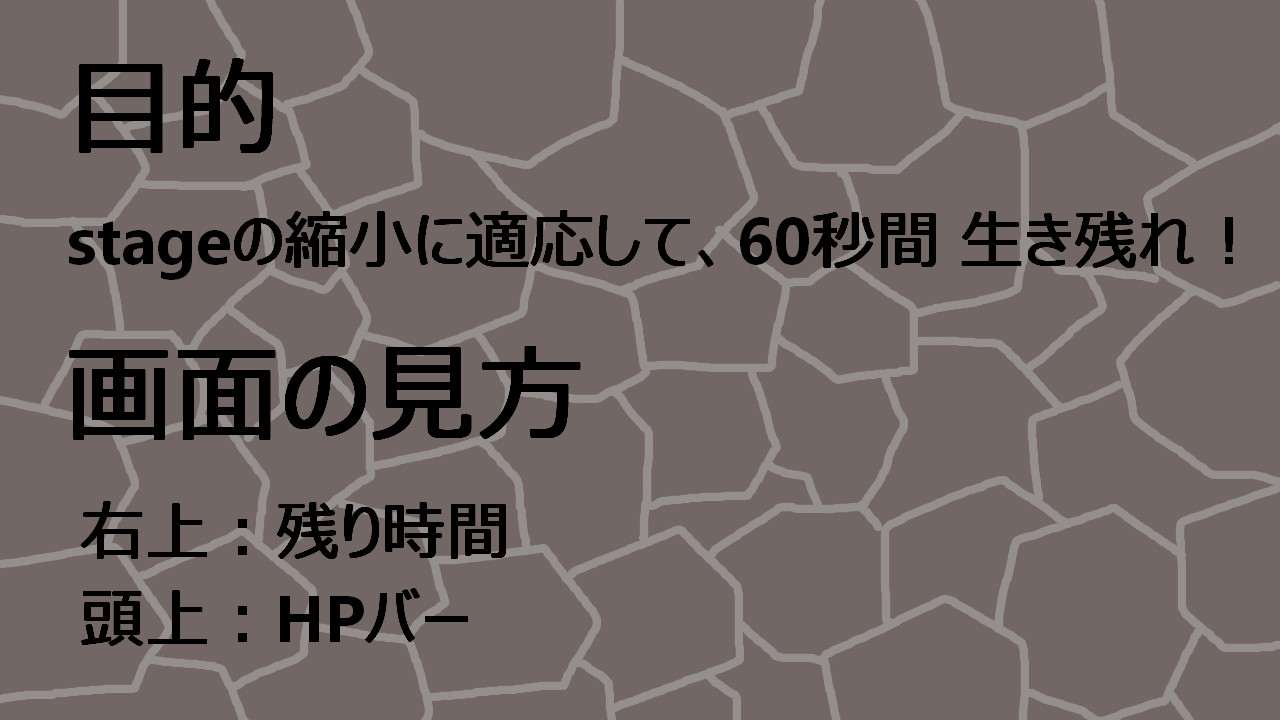
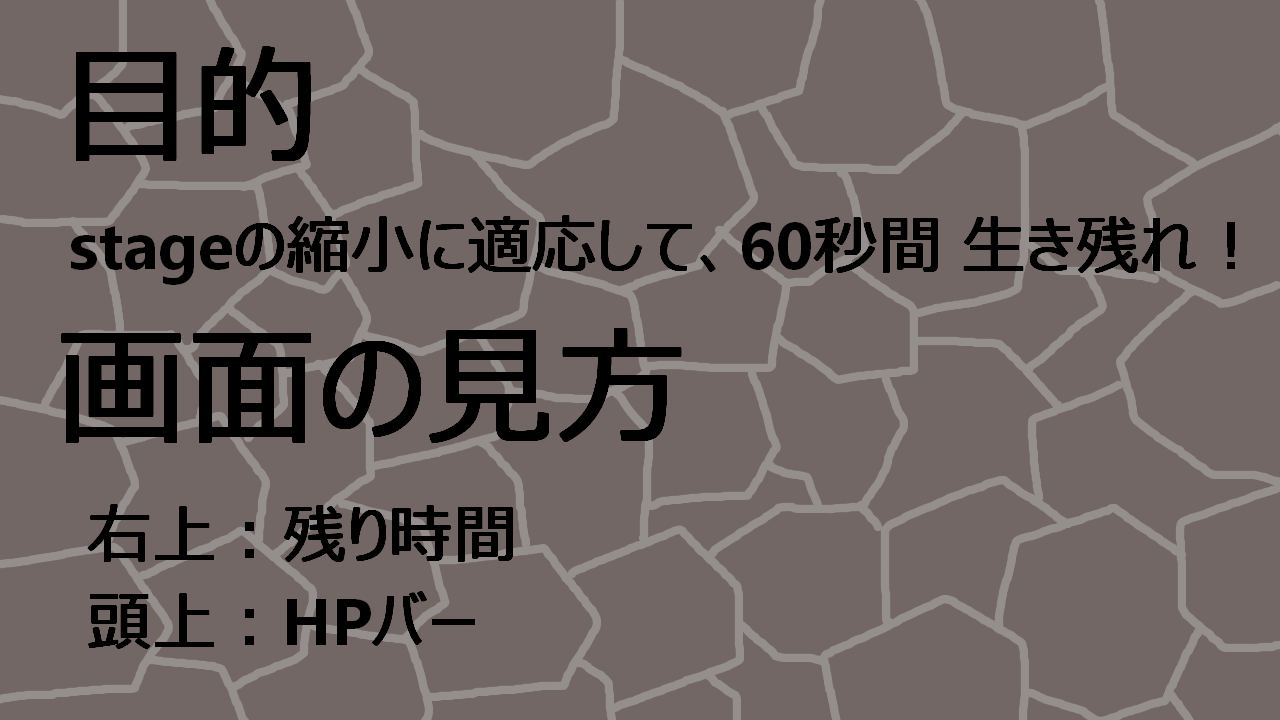
totyuu

diff --git a/DirectXGame/GameScene.cpp b/DirectXGame/GameScene.cpp
@@ -16,24 +16,20 @@ using namespace KamataEngine;
 
 // ===== カウントダウン初期化（UV不要版） =====
 void GameScene::InitCountdownSprites_Fallback_() {
-	// 0〜9の画像をロードし、十/一の位用スプライトをあらかじめ作成
 	for (int i = 0; i < 10; ++i) {
 		std::string path = "./Resources/number/" + std::to_string(i) + ".png";
 		digitTex_[i] = TextureManager::Load(path.c_str());
 
-		// 一の位（右）
 		onesSpr_[i] = Sprite::Create(digitTex_[i], {0.0f, 0.0f});
 		onesSpr_[i]->SetSize({kDigitDrawW_, kDigitDrawH_});
 		onesSpr_[i]->SetPosition({kScreenW_ - 24.0f - kDigitDrawW_, 16.0f});
 
-		// 十の位（左）
 		tensSpr_[i] = Sprite::Create(digitTex_[i], {0.0f, 0.0f});
 		tensSpr_[i]->SetSize({kDigitDrawW_, kDigitDrawH_});
 		tensSpr_[i]->SetPosition({kScreenW_ - 24.0f - kDigitDrawW_ * 2.0f, 16.0f});
 	}
 }
 
-// ===== 指定秒（0〜99）を2桁で描画 =====
 void GameScene::DrawCountdown_Fallback_(int remainSec) {
 	remainSec = std::clamp(remainSec, 0, 99);
 	const int tens = remainSec / 10;
@@ -45,13 +41,11 @@ void GameScene::DrawCountdown_Fallback_(int remainSec) {
 }
 
 GameScene::~GameScene() {
-	// カウントダウン用スプライト解放
 	for (int i = 0; i < 10; ++i) {
 		delete tensSpr_[i];
 		delete onesSpr_[i];
 		tensSpr_[i] = onesSpr_[i] = nullptr;
 	}
-	// 既存オブジェクト解放
 	delete stage_;
 	delete magma_;
 	delete player_;
@@ -87,6 +81,9 @@ void GameScene::Init() {
 	player_ = new Player();
 	player_->Init();
 
+
+	player_->SetGroundY(stage_->GetTopY()); // 位置は変えず、接地基準だけセット
+
 	// 頭上HPバー
 	whiteTex_ = TextureManager::Load("./Resources/white1x1.png");
 	player_->InitHpBar(whiteTex_, {120.0f, 15.0f}, {0.0f, 3.3f, 0.0f});
@@ -114,7 +111,6 @@ void GameScene::SpawnMarkerOnStage(float warnSec) {
 	const float stageR = stage_->GetRadius();
 	const float yawRad = stage_->GetYawRad();
 
-	// 円内一様
 	const float margin = stageR * 0.12f;
 	const float usableR = std::fmax(stageR - margin, 0.0f);
 
@@ -142,6 +138,39 @@ void GameScene::SpawnIcicleAt(const Vector3& groundPos, float dropHeight) {
 	auto rock = std::make_unique<FallingRock>();
 	rock->Initialize(modelIcicle_, start, /*speed=*/30.0f, /*hitY=*/topY);
 	icicles_.push_back(std::move(rock));
+}
+
+// ★ Player×Stage（接地＆円境界押し戻し）
+void GameScene::ResolvePlayerStageCollision() {
+	// 一時的にステージ上面に 0.30f 持ち上げてみる
+	const float surfaceY = stage_->GetTopY() + 2.0f; // ← ここを変えるだけでもOK
+	player_->SetGroundY(surfaceY);
+
+	// 横方向：ステージ円境界内にクランプ
+	const auto c = stage_->GetCenterXZ();            // x=中心X, y=中心Z
+	const float R = stage_->GetRadius();             // ステージ半径
+	const float pr = player_->GetColliderRadiusXZ(); // プレイヤー半径
+
+	const Vector3& pos = player_->GetWorldTransform().translation_;
+	const float dx = pos.x - c.x;
+	const float dz = pos.z - c.y; // center.y は Z
+	const float dist2 = dx * dx + dz * dz;
+	const float maxDist = std::max(R - pr, 0.0f);
+
+	if (dist2 > maxDist * maxDist) {
+		const float dist = std::sqrt(dist2);
+		if (dist > 1e-5f) {
+			const float nx = dx / dist;
+			const float nz = dz / dist;
+			const float clampX = c.x + nx * maxDist;
+			const float clampZ = c.y + nz * maxDist;
+			player_->SetPositionXZ(clampX, clampZ);
+			player_->ForceUpdateMatrix();
+		} else {
+			player_->SetPositionXZ(c.x, c.y + maxDist);
+			player_->ForceUpdateMatrix();
+		}
+	}
 }
 
 // 円×高さ＋少しパディングで判定（ヒット時10ダメージ）
@@ -195,6 +224,9 @@ void GameScene::Update() {
 	magma_->Update();
 	skydome_->Update();
 
+	// ★ステージとの当たり判定（接地＆円境界）
+	ResolvePlayerStageCollision();
+
 	// === カウントダウン ===
 	countdownSec_ -= (1.0f / 60.0f);
 	if (countdownSec_ < 0.0f)
@@ -223,7 +255,7 @@ void GameScene::Update() {
 	for (auto& i : icicles_)
 		i->Update();
 
-	// 当たり判定
+	// 当たり判定（つらら）
 	ResolvePlayerIcicleCollisions();
 
 	// 着弾 or 消費済み のつららを削除
@@ -231,7 +263,7 @@ void GameScene::Update() {
 
 	// 0 になったらクリアへ
 	if (remain <= 0) {
-		sceneNo_ = GAME_CLEAR; // ← あなたの enum 名に合わせてください
+		sceneNo_ = GAME_CLEAR; // ← enum に合わせて
 	}
 
 	// HPバー追従
@@ -243,7 +275,6 @@ void GameScene::Update() {
 void GameScene::DrawBackGroundSprite() { dxCommon_->ClearDepthBuffer(); }
 
 void GameScene::DrawModel() {
-	// 描画順：Stage → Magma → Marker/Icicle → Player → Skydome
 	stage_->Draw(camera_);
 	magma_->Draw(camera_);
 	for (auto& m : markers_)
@@ -258,15 +289,10 @@ void GameScene::DrawForeGroundSprite() {
 	ID3D12GraphicsCommandList* cl = dxCommon_->GetCommandList();
 	Sprite::PreDraw(cl);
 
-	// プレイヤー頭上のHPバー
-	player_->DrawUI();
-
-	// 右上カウントダウン
+	player_->DrawUI(); // HPバー
 	const int remain = static_cast<int>(std::ceil(countdownSec_));
 	DrawCountdown_Fallback_(remain);
 
 	Sprite::PostDraw();
-
-	// ImGui
 	imguiMgr_->Draw();
 }

diff --git a/DirectXGame/Player.cpp b/DirectXGame/Player.cpp
@@ -1,6 +1,6 @@
 #include "Player.h"
 #include "MathUtilityForText.h"
-#include <imgui.h> // マウスのデルタ取得（ImGui::GetIO().MouseDelta）
+#include <imgui.h> // ImGui::GetIO().MouseDelta
 
 using namespace KamataEngine;
 
@@ -11,7 +11,7 @@ Player::~Player() {
 
 void Player::Init() {
 	worldTransform_.Initialize();
-	worldTransform_.translation_.y = 25.0f; // 既存開始高さ
+	worldTransform_.translation_.y = 25.0f; // 仮の開始高さ（後でスナップ）
 	worldTransform_.rotation_ = {0.0f, 0.0f, 0.0f};
 	worldTransform_.UpdateMatrix(true);
 
@@ -25,7 +25,7 @@ void Player::Init() {
 	damageCooldown_ = 0.0f;
 
 	// ジャンプ/重力
-	baseY_ = worldTransform_.translation_.y; // 今の高さを地面扱い
+	baseY_ = worldTransform_.translation_.y; // とりあえず今の高さを「地面」としておく
 	velY_ = 0.0f;
 	onGround_ = true;
 
@@ -55,9 +55,7 @@ void Player::Update() {
 	// ===== マウスで視点（Yaw）回転：常時 =====
 	{
 		ImGuiIO& io = ImGui::GetIO();
-		// UI操作中は回したくない場合はブロック
 		if (!io.WantCaptureMouse) {
-			// 右に動かすと右回転（手前向き右手系なら符号入替で調整）
 			yawRad_ += io.MouseDelta.x * kMouseYawSensitivity_;
 		}
 	}
@@ -66,13 +64,13 @@ void Player::Update() {
 	// ===== 横移動（プレイヤーの向き基準：ローカル→ワールド） =====
 	Vector3 localMove{0.0f, 0.0f, 0.0f};
 
-	// キーボード（W前・S後・A左・D右）
+	// キーボード（W前・S後・A左・D右）※現行符号に合わせています
 	if (in->PushKey(DIK_A))
 		localMove.x -= kMoveSpeedKeys_;
 	if (in->PushKey(DIK_D))
 		localMove.x += kMoveSpeedKeys_;
 	if (in->PushKey(DIK_S))
-		localMove.z -= kMoveSpeedKeys_; // 前 = -Z と仮定
+		localMove.z -= kMoveSpeedKeys_; // 前 = -Z
 	if (in->PushKey(DIK_W))
 		localMove.z += kMoveSpeedKeys_; // 後 = +Z
 
@@ -95,7 +93,7 @@ void Player::Update() {
 	velY_ += kGravity_ * dt;
 	worldTransform_.translation_.y += velY_ * dt;
 
-	// 接地（Init時の高さを地面扱い）
+	// 接地（baseY_ を基準に）
 	if (worldTransform_.translation_.y <= baseY_) {
 		worldTransform_.translation_.y = baseY_;
 		velY_ = 0.0f;
@@ -128,3 +126,36 @@ AABB Player::GetAABB() const {
 	const Vector3 half = {kRadius_, kHalfHeight_, kRadius_};
 	return AABB{c - half, c + half};
 }
+
+// ===== ここから追加実装 =====
+
+// ステージ上面Yを渡すと、センターの接地Yを surfaceY + 半身長 に設定
+void Player::SetGroundY(float surfaceY) {
+	// 基準 = ステージ上面 + 半身長 + クリアランス
+	const float newBase = surfaceY + kHalfHeight_ + kGroundClearance_; // ← ここに +kGroundClearance_ が入っているか確認
+	if (worldTransform_.translation_.y > newBase + 1e-4f)
+		onGround_ = false;
+	baseY_ = newBase;
+
+	if (worldTransform_.translation_.y < baseY_) {
+		worldTransform_.translation_.y = baseY_;
+		velY_ = 0.0f;
+		onGround_ = true;
+		worldTransform_.UpdateMatrix(true);
+	}
+}
+
+// 初期配置などで「今すぐ地面に乗せたい」時に呼ぶ
+void Player::SnapToGround() {
+	worldTransform_.translation_.y = baseY_;
+	velY_ = 0.0f;
+	onGround_ = true;
+	worldTransform_.UpdateMatrix(true);
+}
+
+void Player::SetPositionXZ(float x, float z) {
+	worldTransform_.translation_.x = x;
+	worldTransform_.translation_.z = z;
+}
+
+void Player::ForceUpdateMatrix() { worldTransform_.UpdateMatrix(true); }

diff --git a/DirectXGame/Player.h b/DirectXGame/Player.h
@@ -25,6 +25,18 @@ public:
 	// 判定AABB
 	AABB GetAABB() const;
 
+	// ===== 当たり判定に使う便利関数（追加） =====
+	// ステージ上面Y（SurfaceY）を受けて接地基準（baseY_）を更新（センターY = SurfaceY + 半身長）
+	void SetGroundY(float surfaceY);
+	// その場で baseY_ にスナップ（初期配置用）
+	void SnapToGround();
+	// XZだけ位置をセット（押し戻し用）
+	void SetPositionXZ(float x, float z);
+	// 押し戻し後に行列を即更新
+	void ForceUpdateMatrix();
+	// XZの当たり半径（円近似）
+	float GetColliderRadiusXZ() const { return kRadius_; }
+
 	// ===== HP =====
 	void SetMaxHp(int v) {
 		maxHp_ = (v > 1) ? v : 1;
@@ -72,7 +84,7 @@ private:
 	std::unique_ptr<HpBar> hpBar_;
 
 	// 当たり判定近似（カプセル相当をAABB化）
-	static constexpr float kRadius_ = 0.6f;     // 横半径
+	static constexpr float kRadius_ = 0.6f;     // 横半径（XZ円半径）
 	static constexpr float kHalfHeight_ = 1.0f; // 縦の半身長
 
 	// ダメージのクールダウン
@@ -84,11 +96,14 @@ private:
 	static constexpr float kMoveSpeedPad_ = 0.20f;  // 左スティック
 	static constexpr float kJumpSpeed_ = 25.0f;     // 上向き初速
 	static constexpr float kGravity_ = -90.0f;      // 重力加速度(下向き)
-	float baseY_ = 0.0f;                            // 地面Y（Init時の高さを採用）
+	float baseY_ = 0.0f;                            // 「接地したときのセンターY」
 	float velY_ = 0.0f;                             // 縦速度
 	bool onGround_ = true;                          // 接地中か
 
 	// ===== マウス視点（Yaw） =====
 	float yawRad_ = 0.0f;                                   // 現在の向き（Y回転）
 	static constexpr float kMouseYawSensitivity_ = 0.0035f; // ラジアン/ピクセル
+
+static constexpr float kGroundClearance_ = 2.0f;
+
 };

diff --git a/DirectXGame/GameScene.h b/DirectXGame/GameScene.h
@@ -93,6 +93,8 @@ private:
 
 	// --- 当たり判定 ---
 	void ResolvePlayerIcicleCollisions();
+	// ★追加：Player×Stage の当たり判定（接地＆円境界押し戻し）
+	void ResolvePlayerStageCollision();
 
 	// --- カウントダウン表示 ---
 	void InitCountdownSprites_Fallback_();
